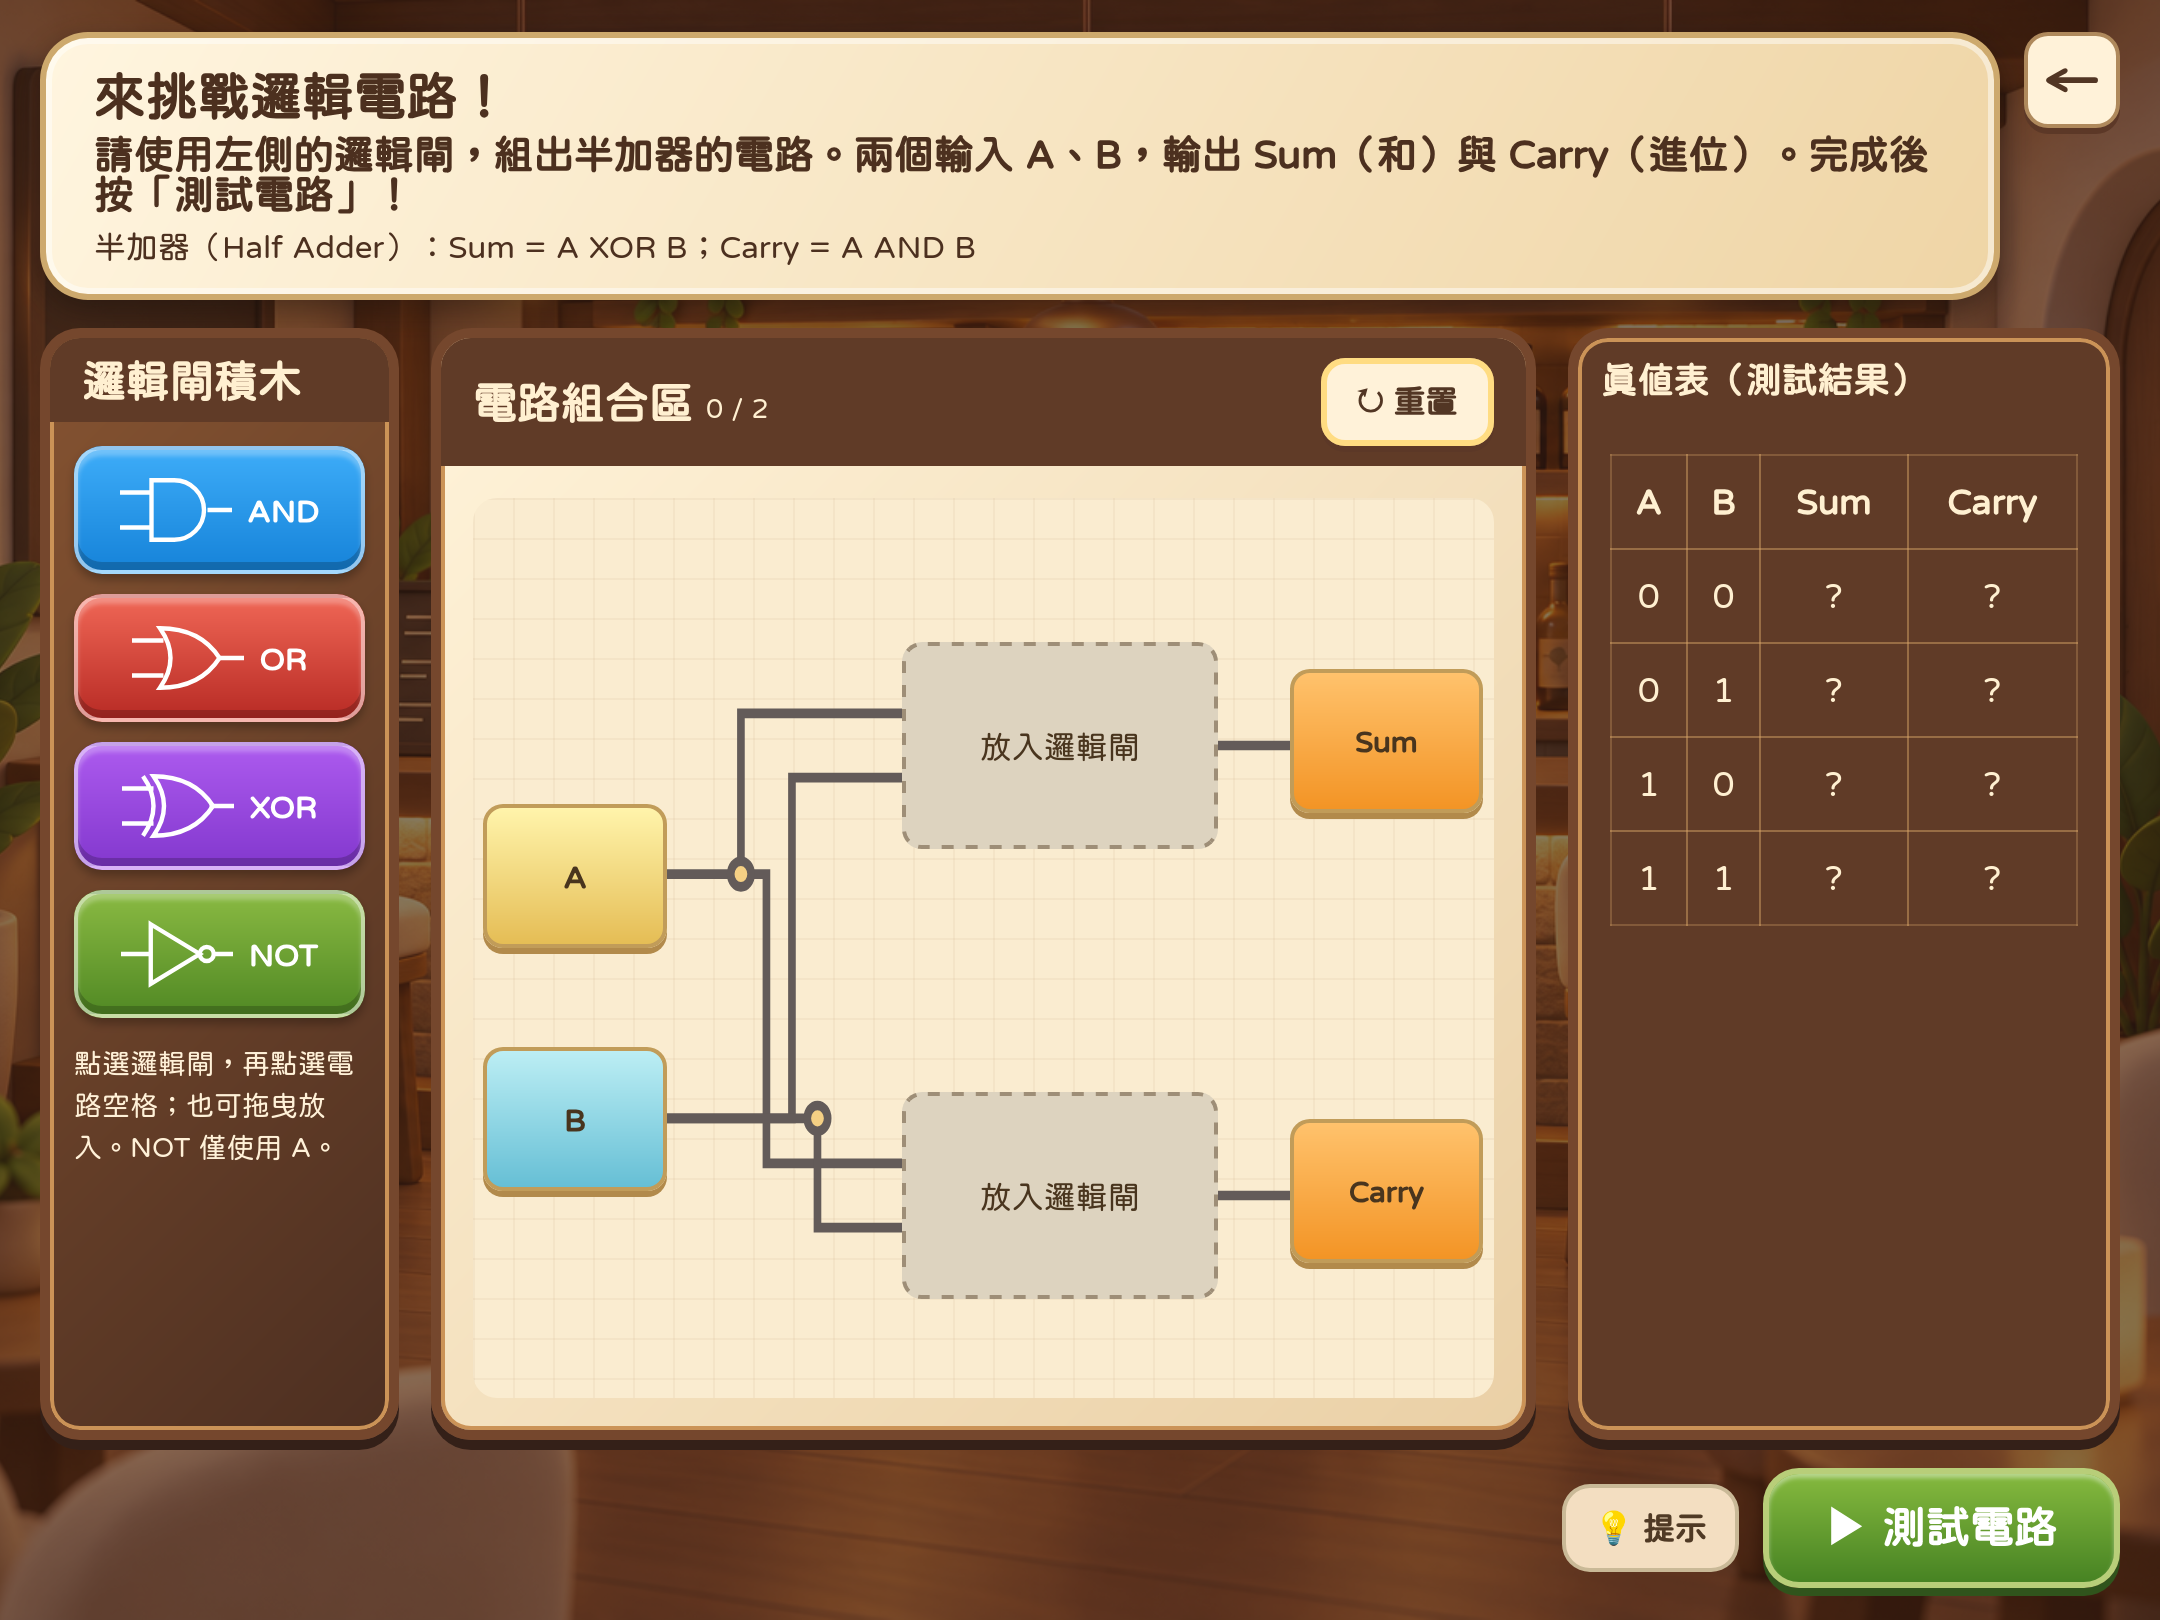
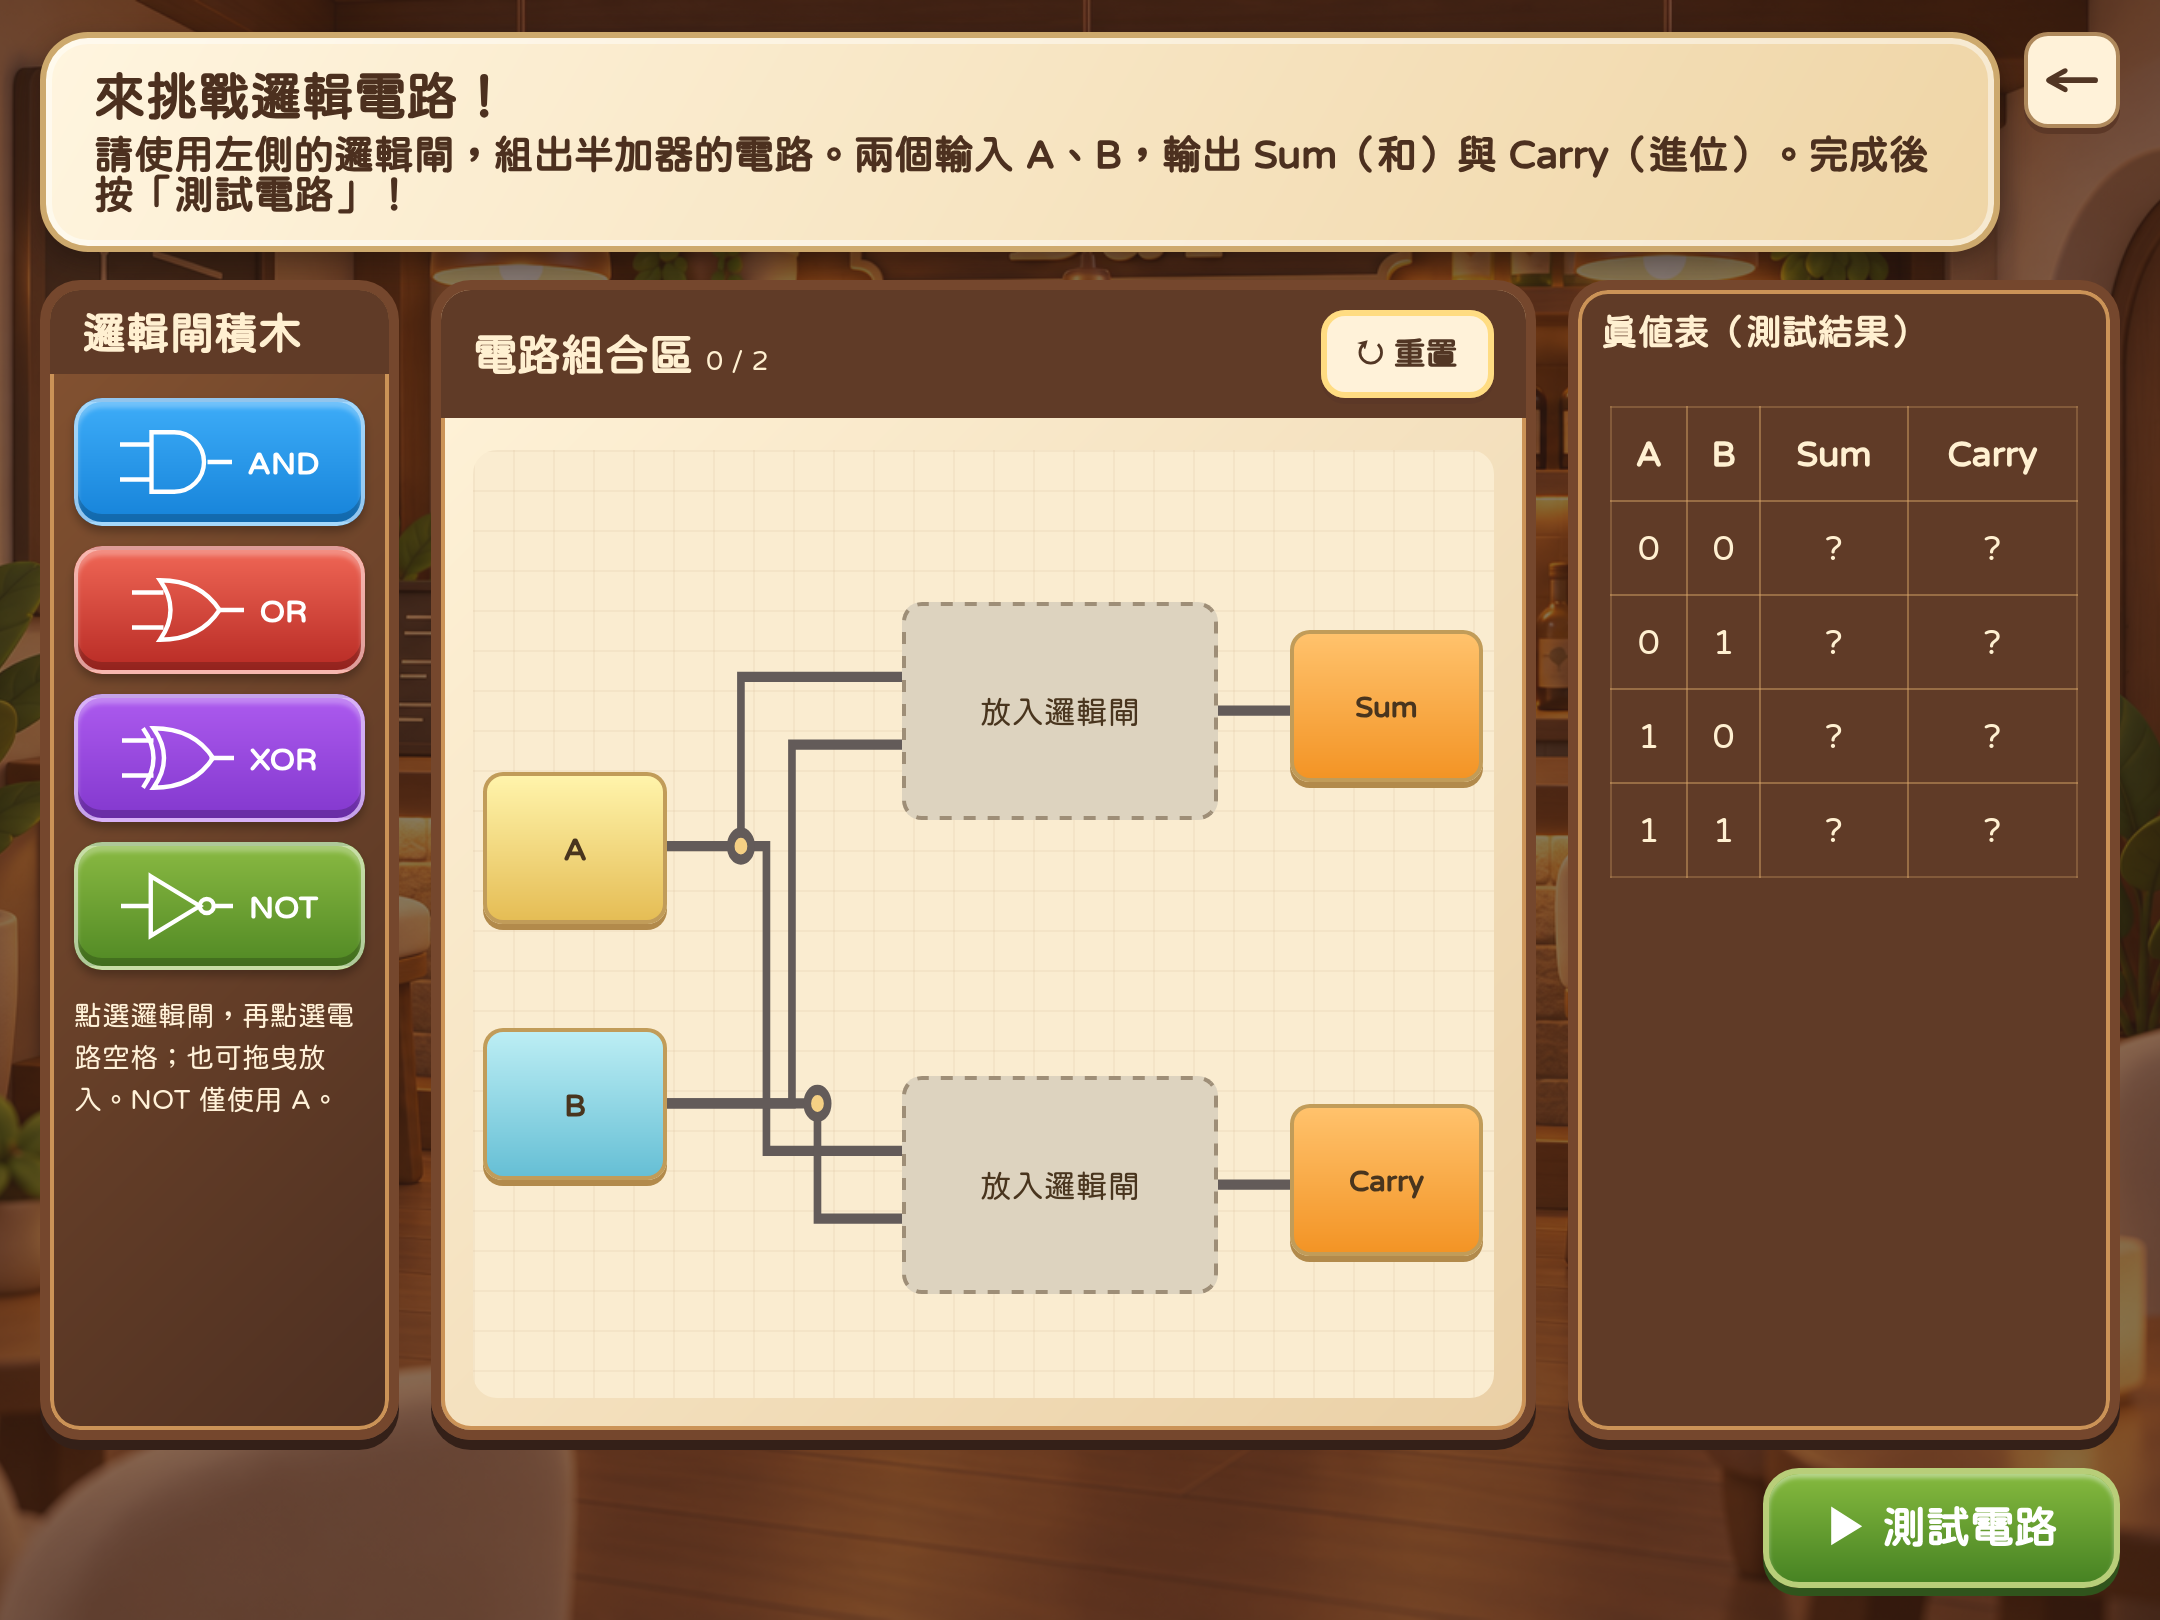
Remove answer hints from Wilson House circuit game (#40)

diff --git a/packages/client/src/ui/barBlockGame.ts b/packages/client/src/ui/barBlockGame.ts
@@ -24,14 +24,6 @@ export class BarBlockGame {
       this.slots = this.game.correctOrder.map(() => null);
       this.render();
     });
-    document.getElementById('game-hint')!.addEventListener('click', () => {
-      const hint = document.getElementById('game-hint')!;
-      const shown = hint.getAttribute('aria-pressed') !== 'true';
-      hint.setAttribute('aria-pressed', String(shown));
-      document.getElementById('game-reference')!.textContent = shown
-        ? 'Sum 使用 XOR：輸入不同時輸出 1；Carry 使用 AND：兩個輸入都是 1 時輸出 1。'
-        : '半加器（Half Adder）：Sum = A XOR B；Carry = A AND B';
-    });
     this.submit.addEventListener('click', () => {
       if (!this.circuitMode && !this.game) return;
       const correct = this.circuitMode ? this.circuit.test() : isCorrectOrder(this.game!, this.slots);
@@ -50,14 +42,14 @@ export class BarBlockGame {
     this.slots = this.game?.correctOrder.map(() => null) ?? [];
     this.dialog.classList.toggle('circuit-mode', this.circuitMode);
     document.getElementById('circuit-results')!.hidden = !this.circuitMode;
-    document.getElementById('game-hint')!.hidden = !this.circuitMode;
-    document.getElementById('game-hint')!.setAttribute('aria-pressed', 'false');
     document.getElementById('game-bank-title')!.textContent = this.circuitMode ? '邏輯閘積木' : '積木區';
     document.getElementById('game-assembly-label')!.textContent = this.circuitMode ? '電路組合區' : '組合區';
     this.submit.textContent = this.circuitMode ? '▶ 測試電路' : '▶ 提交答案';
     document.getElementById('game-title')!.textContent = game.title;
     document.getElementById('game-question')!.textContent = game.question;
-    document.getElementById('game-reference')!.textContent = game.reference;
+    const reference = document.getElementById('game-reference')!;
+    reference.textContent = game.reference;
+    reference.hidden = game.reference.length === 0;
     (document.getElementById('game-backdrop') as HTMLImageElement).src = image;
     this.clearFeedback();
     if (this.circuitMode) this.circuit.reset();

diff --git a/packages/client/src/ui/style.css b/packages/client/src/ui/style.css
@@ -1065,7 +1065,7 @@ body {
 .game-block-fixed { margin-bottom: 14px; }
 
 /* Half adder: fixed A/B wiring, two editable gate sockets, live test table. */
-.game-panel[hidden], #game-hint[hidden] { display: none; }
+.game-panel[hidden] { display: none; }
 .circuit-mode .game-workspace { grid-template-columns: minmax(130px, .65fr) minmax(280px, 2fr) minmax(210px, 1fr); }
 .circuit-mode #game-bank { gap: 10px; padding: 12px; }
 .logic-gate {
@@ -1107,8 +1107,6 @@ body {
 .circuit-results th, .circuit-results td { border: 1px solid #b98a5766; padding: 14px 6px; }
 .circuit-results td[data-result="correct"] { background: #8bba5c44; color: #e2ffb9; }
 .circuit-results td[data-result="retry"] { background: #d6654d44; color: #ffd9c9; }
-#game-hint { min-height: 44px; border: 2px solid #c9b997; border-radius: 14px; padding: 8px 14px; background: #f3dec1; color: #503a25; font-weight: 700; }
-#game-hint[aria-pressed="true"] { background: #ffe49e; }
 .circuit-mode #game-feedback { flex: 1; }
 @media (max-width: 900px) {
   .circuit-mode .game-workspace { grid-template-columns: 110px minmax(0, 1fr); grid-template-rows: minmax(320px, 1fr) auto; overflow-y: auto; overscroll-behavior: contain; align-content: start; }
@@ -1126,6 +1124,5 @@ body {
   .circuit-mode .circuit-results th, .circuit-mode .circuit-results td { padding: 8px; }
   .circuit-mode .game-footer { gap: 6px; }
   .circuit-mode #game-submit { font-size: 16px; padding: 10px 12px; }
-  .circuit-mode #game-hint { padding: 8px; font-size: 15px; }
   .circuit-mode #game-feedback { font-size: 17px; }
 }

diff --git a/e2e/half-adder.spec.ts b/e2e/half-adder.spec.ts
@@ -19,7 +19,9 @@ for (const view of ['2d', '3d']) test('Wilson simulates the half adder in ' + vi
   await expect(page.locator('#game-bank button')).toHaveCount(4);
   expect(await game.evaluate(el => el.scrollWidth <= el.clientWidth)).toBe(true);
   await expect(page.locator('#game-submit')).toBeInViewport();
-  await expect(page.locator('#game-hint')).toBeInViewport();
+  await expect(page.locator('#game-hint')).toHaveCount(0);
+  await expect(page.locator('#game-reference')).toBeHidden();
+  await expect(page.locator('.game-intro')).not.toContainText('XOR');
   const sum = page.locator('[data-output="sum"]');
   const carry = page.locator('[data-output="carry"]');
   const choose = async (gate: string, output: 'sum' | 'carry') => {
@@ -36,8 +38,6 @@ for (const view of ['2d', '3d']) test('Wilson simulates the half adder in ' + vi
   await expect(page.locator('#game-feedback')).toHaveText('你再試試看');
   await expect(page.locator('#circuit-truth tr').last().locator('td').nth(2)).toHaveText('1');
   await expect(page.locator('#circuit-truth td[data-result="retry"]')).toHaveCount(1);
-  await page.locator('#game-hint').click();
-  await expect(page.locator('#game-reference')).toContainText('Sum 使用 XOR');
   if (testInfo.project.name === 'ipad-landscape') {
     await page.locator('#game-bank [data-gate="XOR"]').dragTo(sum);
   } else await choose('XOR', 'sum');

diff --git a/packages/client/src/world/halfAdder.ts b/packages/client/src/world/halfAdder.ts
@@ -6,7 +6,7 @@ export const HALF_ADDER_GAME = {
   kind: 'half-adder' as const,
   title: '來挑戰邏輯電路！',
   question: '請使用左側的邏輯閘，組出半加器的電路。兩個輸入 A、B，輸出 Sum（和）與 Carry（進位）。完成後按「測試電路」！',
-  reference: '半加器（Half Adder）：Sum = A XOR B；Carry = A AND B',
+  reference: '',
 };
 export function evaluateGate(gate: LogicGate | null, a: number, b: number): number | null {
   switch (gate) {

diff --git a/packages/client/index.html b/packages/client/index.html
@@ -111,7 +111,6 @@
           </div>
           <footer class="game-footer">
             <p id="game-feedback" role="status" aria-live="polite"></p>
-            <button id="game-hint" type="button" hidden aria-pressed="false">💡 提示</button>
             <button id="game-submit" type="button">▶ 提交答案</button>
           </footer>
         </div>

diff --git a/docs/visual/half-adder/README.md b/docs/visual/half-adder/README.md
@@ -7,10 +7,12 @@ The bartender's Y choice opens a half-adder challenge instead of the addition pl
 - Test: simulates all four A/B inputs and fills the truth table with actual outputs. Cells distinguish correct and incorrect values. Only XOR → Sum and AND → Carry passes all rows.
 - NOT takes A only; its B wire is shown disconnected. Missing gates retain unknown outputs and cannot pass.
 - Correct feedback: `太棒了`; incorrect/incomplete feedback: `你再試試看`.
-- Reset clears both sockets and results. Hint explains XOR and AND. On narrow screens the workspace scrolls, and testing brings the results into view. The footer remains reachable.
+- Reset clears both sockets and results. On narrow screens the workspace scrolls, and testing brings the results into view. The footer remains reachable.
 
 Implementation: `packages/client/src/world/halfAdder.ts` contains the simulator; `packages/client/src/ui/halfAdderPuzzle.ts` renders the native, interactive circuit. `barGames.ts` routes Wilson to the circuit game, Moore/Shockley to their existing puzzles, and the remaining nine houses to the addition placeholder.
 
-Validation: typecheck, lint, production build and 228 unit tests passed. Eight WebKit circuit scenarios covered iPhone/iPad portrait/landscape in 2D/3D, six iPhone regressions covered the existing block games, and four final layout scenarios verified that the last truth-table row becomes visible after testing. Coverage includes incomplete/wrong/correct circuits, all four input rows, NOT, touch, drag, hint, clearing/replacing gates, reset, re-entry, Escape and outdoor movement pause.
+Validation: typecheck, lint, production build and 228 unit tests passed. Eight WebKit circuit scenarios covered iPhone/iPad portrait/landscape in 2D/3D, six iPhone regressions covered the existing block games, and four final layout scenarios verified that the last truth-table row becomes visible after testing. Coverage includes incomplete/wrong/correct circuits, all four input rows, NOT, touch, drag, clearing/replacing gates, reset, re-entry, Escape and outdoor movement pause.
 
 Actual captures: [tablet ready](tablet-ready.png), [tablet result](tablet-result.png), [phone ready](phone-ready.png), [phone result](phone-result.png).
+
+The question screen deliberately withholds the gate mapping, and the answer-revealing hint button has been removed. The simulator still checks the gate choices and shows their actual truth-table outputs after testing.
